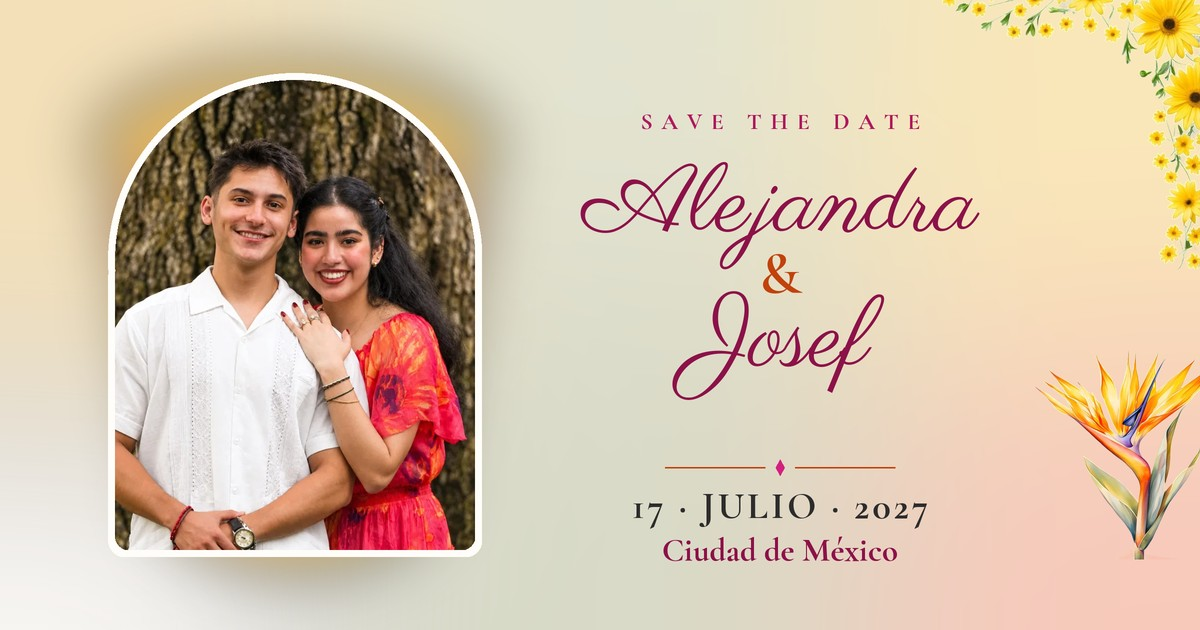
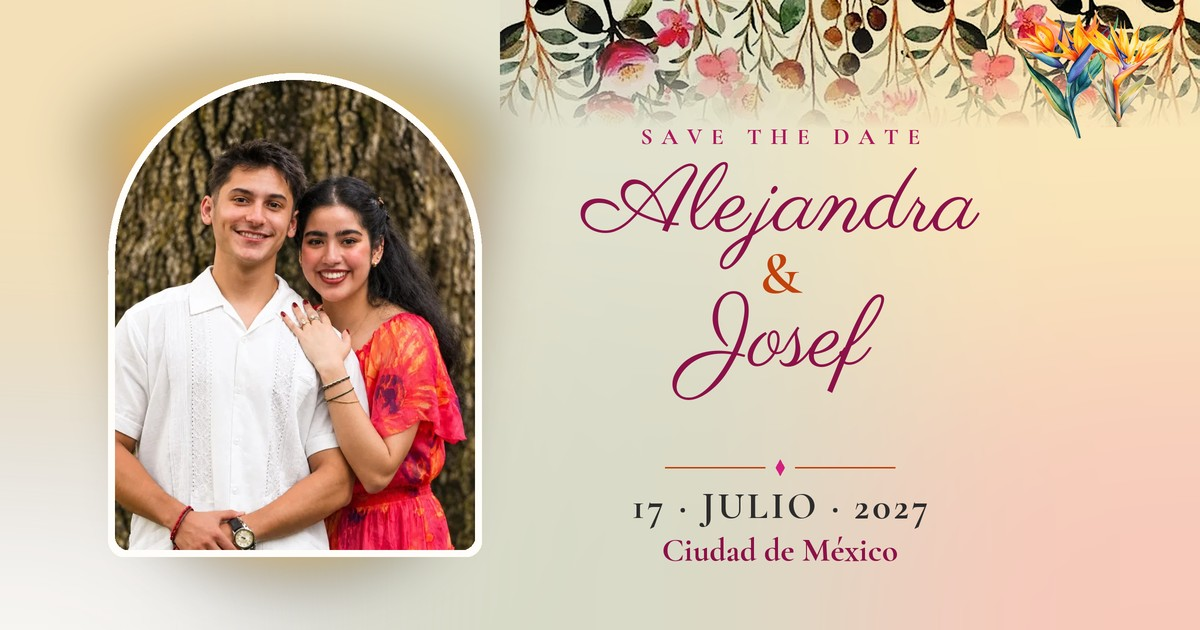
feat: v4 sin flores amarillas, par de aves del paraiso uniforme, loader con bandas del hero, OG nuevo

Changed region(s): [[0.4008, 0.0, 1.0, 0.4222], [0.8633, 0.573, 1.0, 0.9048]]

diff --git a/src/app/_components/InvitationClient.tsx b/src/app/_components/InvitationClient.tsx
@@ -308,10 +308,9 @@ function Hero() {
         paddingRight: 24,
       }}
     >
+      <BirdPair edge="top" />
       <WindFlowers src="/floral/hero-top.webp" edge="top" />
       <WindFlowers src="/floral/hero-bottom.webp" edge="bottom" />
-      <BirdOfParadise src="/floral/bop-a.webp?v=2" side="left" />
-      <BirdOfParadise src="/floral/bop-b.webp?v=2" side="right" />
       <Petals />
 
       <motion.div
@@ -686,6 +685,7 @@ function Footer() {
         padding: "76px 24px clamp(150px, 34vw, 260px)",
       }}
     >
+      <BirdPair edge="bottom" />
       <WindFlowers src="/floral/bg-footer.webp" edge="bottom" height="clamp(170px, 38vw, 300px)" opacity={0.75} inView />
 
       <div style={{ position: "relative", zIndex: 1 }}>
@@ -812,6 +812,7 @@ function Calendario() {
   const lead = 4; // 1 jul 2027 = jueves (L M M J V S D)
   return (
     <Section style={{ position: "relative", overflow: "hidden", paddingTop: 64, paddingBottom: "clamp(170px, 34vw, 230px)" }}>
+      <BirdPair edge="bottom" />
       <WindFlowers src="/floral/cal-band.webp" edge="bottom" height="clamp(170px, 34vw, 230px)" opacity={0.9} inView />
       <Reveal style={{ position: "relative", zIndex: 1, maxWidth: 340, margin: "0 auto" }}>
         <RevealItem>
@@ -999,38 +1000,17 @@ function Petals() {
   );
 }
 
-/* Ave del paraíso (acuarela) que crece desde la base del hero y se mece */
-function BirdOfParadise({ src, side }: { src: string; side: "left" | "right" }) {
-  const reduce = useReducedMotion();
+/* Par de aves del paraíso juntas como acento del follaje (mismo acento en todas las bandas) */
+function BirdPair({ edge }: { edge: "top" | "bottom" }) {
   return (
-    <motion.div
+    <div
       aria-hidden="true"
-      initial={reduce ? undefined : { opacity: 0, y: 60, rotate: side === "left" ? -8 : 8 }}
-      animate={reduce ? undefined : { opacity: 1, y: 0, rotate: 0 }}
-      transition={{ duration: 1.8, delay: side === "left" ? 0.6 : 0.85, ease: [0.22, 1, 0.36, 1] }}
-      style={{
-        position: "absolute",
-        bottom: -10,
-        [side]: "-6%",
-        width: "clamp(120px, 34vw, 230px)",
-        zIndex: 0,
-        pointerEvents: "none",
-      }}
+      className={`bird-pair bird-pair--${edge}`}
     >
       {/* eslint-disable-next-line @next/next/no-img-element */}
-      <img
-        src={src}
-        alt=""
-        className={reduce ? undefined : `bop-sway bop-${side}`}
-        style={{
-          width: "100%",
-          height: "auto",
-          display: "block",
-          transform: side === "right" ? "scaleX(-1)" : undefined,
-          WebkitMaskImage: "linear-gradient(to top, transparent 0%, black 18%)",
-          maskImage: "linear-gradient(to top, transparent 0%, black 18%)",
-        }}
-      />
-    </motion.div>
+      <img src="/floral/bop-a.webp?v=2" alt="" className="bird bird-1" />
+      {/* eslint-disable-next-line @next/next/no-img-element */}
+      <img src="/floral/bop-b.webp?v=2" alt="" className="bird bird-2" />
+    </div>
   );
 }

diff --git a/src/app/globals.css b/src/app/globals.css
@@ -342,3 +342,16 @@ body {
 .lang-toggle .on{color:#8C1149}
 .lang-toggle i{width:1px;height:14px;background:rgba(140,17,73,.3)}
 @media (prefers-reduced-motion: reduce){.bop-sway,.ring-photo-glow{animation:none!important}}
+
+/* ===== v4: sin amarillos; aves del paraíso juntas como acento, uniformes ===== */
+.bird-pair{position:absolute;right:4%;width:clamp(120px,32vw,200px);height:clamp(150px,40vw,250px);pointer-events:none;z-index:0}
+.bird-pair--top{top:clamp(26px,5vh,46px)}
+.bird-pair--bottom{bottom:clamp(40px,8vw,70px)}
+.bird{position:absolute;bottom:0;width:72%;height:auto;transform-origin:50% 100%;animation:bopSway 6.5s ease-in-out infinite alternate}
+.bird-1{left:0;rotate:-10deg}
+.bird-2{right:0;transform:scaleX(-1);animation-duration:7.6s;animation-delay:-2.4s;width:64%}
+.ld-band{position:absolute;left:-4%;right:-4%;height:min(34vh,300px);background-size:cover;mix-blend-mode:multiply;animation:ldGrow 2.1s cubic-bezier(.22,1,.36,1) both}
+.ld-band-top{top:0;background-image:url(/floral/hero-top.webp);background-position:center top;transform-origin:top center;-webkit-mask-image:linear-gradient(to bottom,#000 50%,transparent);mask-image:linear-gradient(to bottom,#000 50%,transparent)}
+.ld-band-bottom{bottom:0;background-image:url(/floral/hero-bottom.webp);background-position:center bottom;transform-origin:bottom center;animation-delay:.25s;-webkit-mask-image:linear-gradient(to top,#000 50%,transparent);mask-image:linear-gradient(to top,#000 50%,transparent)}
+.ld-birds{opacity:0;animation:ldFade 1.4s .8s ease forwards}
+@media (prefers-reduced-motion: reduce){.bird{animation:none!important}}

diff --git a/src/app/_components/Loader.tsx b/src/app/_components/Loader.tsx
@@ -58,13 +58,14 @@ export function Loader({ children }: { children: React.ReactNode }) {
       {!gone && (
         <div className={`ld ${ready ? "is-ready" : ""} ${opening ? "is-opening" : ""}`}>
           <div className="ld-half ld-top">
-            <img className="ld-flor ld-tl" src="/floral/yel-c-l.webp?v=2" alt="" />
-            <img className="ld-flor ld-tr" src="/floral/yel-c.webp?v=2" alt="" />
+            <div className="ld-band ld-band-top" />
+            <div className="bird-pair bird-pair--top ld-birds">
+              <img src="/floral/bop-a.webp?v=2" alt="" className="bird bird-1" />
+              <img src="/floral/bop-b.webp?v=2" alt="" className="bird bird-2" />
+            </div>
           </div>
           <div className="ld-half ld-bottom">
-            <div className="ld-meadow" />
-            <img className="ld-flor ld-bl" src="/floral/bop-a.webp?v=2" alt="" />
-            <img className="ld-flor ld-br" src="/floral/bop-b.webp?v=2" alt="" />
+            <div className="ld-band ld-band-bottom" />
           </div>
           <div className="ld-sparkles" aria-hidden="true">
             {Array.from({ length: 14 }).map((_, i) => (

diff --git a/src/app/layout.tsx b/src/app/layout.tsx
@@ -35,13 +35,13 @@ export const metadata: Metadata = {
     siteName: "Save the Date Alejandra & Josef",
     locale: "es_MX",
     type: "website",
-    images: [{ url: "https://save-the-date-alejandra-y-josef.vercel.app/og-image.jpg?v=5", width: 1200, height: 630, alt: "Save the Date Alejandra & Josef" }],
+    images: [{ url: "https://save-the-date-alejandra-y-josef.vercel.app/og-image.jpg?v=6", width: 1200, height: 630, alt: "Save the Date Alejandra & Josef" }],
   },
   twitter: {
     card: "summary_large_image",
     title: "Save the Date · Alejandra & Josef — 17 Julio 2027",
     description: "Reserva la fecha: 17 de julio de 2027 · Ciudad de México.",
-    images: ["https://save-the-date-alejandra-y-josef.vercel.app/og-image.jpg?v=5"],
+    images: ["https://save-the-date-alejandra-y-josef.vercel.app/og-image.jpg?v=6"],
   },
 };
 
